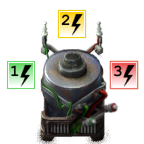
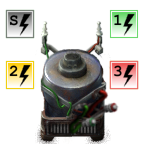
Fixed crash; Added binary signal for solar

diff --git a/Power Meter/README.md b/Power Meter/README.md
@@ -1,15 +1,25 @@
 A new take on the idea of a power meter. 
 This one is unique in that it measures power utilization, i.e. how hard your power generators are working, or in other words how close are you to being in trouble. 
 
-Outputs three signals: percentage of power production utilization broken down by the three priorities: primary, secondary and tertiary. 
-Primary production is solar panels (also wind turbines in mods). 
+Outputs four signals: percentage of power production utilization broken down by the four priorities: solar, primary, secondary and tertiary. 
+Solar is self explanatory. 
+Primary production is apparently not used in vanilla, but used in mods for things like wind turbines. 
 Secondary production is steam engines and steam turbines (and various similar things in mods). 
 Tertiary production is accumulators. 
 
 As an example, suppose you have ten solar panels (60 kW each) and 1 steam engine (900 kW), and your factory consumes 690 kW of power. 
-In this case the power meter combinator would output "primary" = 100 (solar panels are fully utilized to give 600 kW), 
+In this case the power meter combinator would output "solar" = 100, (solar panels are fully utilized to give 600 kW), 
+"primary" = 100 (there are no primary generators)
 and "secondary" = 10 (the lone steam engine is utilized for 10% to provide the remaining 90 kW). 
 In this case "tertiary" signal would be zero, because there are no accumulators. 
+
+Unfortunately implementation for solar is limited, due to the way the game handles solar power. 
+The game doesn't keep track of individual solar generators, therefore the meter can only give a binary signal. 
+Either the solar power is not yet fully utilized: "solar" = 0, or it is: solar = "100". 
+No solar panels in the network counts as full utilization. 
+The same is true for other priorities, no generators of a higher priority counts as full utilization, 
+for example if your base runs fully on tertiary sources, the meter will output 100 utilization for solar, primary and secondary, 
+and the real utilization percentage for tertiary.    
 
 Currently the signals that the meter combinator outputs are hardcoded (see their icons in the thumbnail), but they are custom signals, so they shouldn't conflict with anything. 
 
